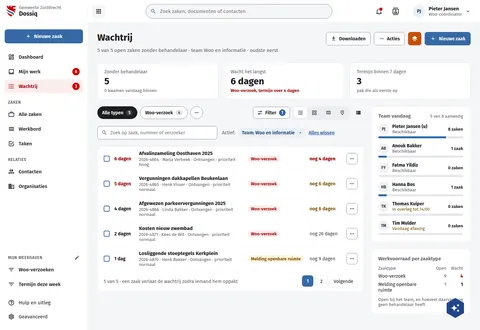
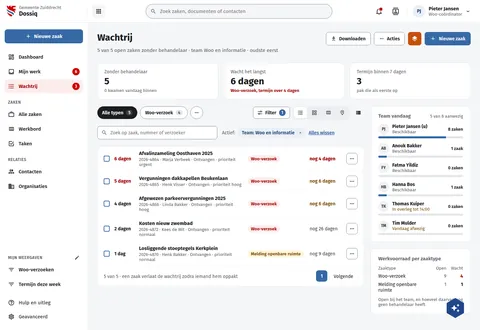
fix(screens): DqTeamwachtrij draws the queue the set holds
The rows carry the set's priorities as live shows them (2026-4864 urgent,
4865 and 4866 hoog) and Kosten nieuw zwembad's number as live numbers it
(2026-4872); with 4865's shorter meta on one line, live's pager sat 14px
higher than drawn. Five of five cases fit one page, so the pager has no
page 2.

Assisted-by: ClaudeCode:claude-opus-5-5

diff --git a/preview/screens/boards/DqTeamwachtrij.html b/preview/screens/boards/DqTeamwachtrij.html
@@ -216,7 +216,7 @@ a{color:var(--sc-primary, #3669a5)}a:hover{color:var(--sc-primary-deep, #234a78)
               <div style="display: flex; flex-wrap: wrap; align-items: center; gap: 8px 14px; padding: 12px 18px; border-bottom: 1px solid var(--sc-work-soft, #eef0f3)">
                 <span aria-label="Selecteren" style="flex: none; width: 18px; height: 18px; box-sizing: border-box; border: 2px solid var(--sc-primary, #3669a5); border-radius: 4px; background: #ffffff"></span>
                 <span style="flex: none; width: 60px; font-size: 14px; font-weight: 700; color: var(--sc-accent-deep, #a30000);">6 dagen</span>
-                <a href="DqZaak.html" style="flex: 1 1 200px; min-width: 0; display: flex; flex-direction: column; gap: 2px; color: var(--sc-work-ink, #1b1c1d); text-decoration: none"><strong style="font-size: 15px">Afvalinzameling Oosthaven 2025</strong><span style="font-size: 13px; color: var(--sc-work-muted, #5e6168)">2026-4864 · Marja Verbeek · Ontvangen · prioriteit hoog</span></a>
+                <a href="DqZaak.html" style="flex: 1 1 200px; min-width: 0; display: flex; flex-direction: column; gap: 2px; color: var(--sc-work-ink, #1b1c1d); text-decoration: none"><strong style="font-size: 15px">Afvalinzameling Oosthaven 2025</strong><span style="font-size: 13px; color: var(--sc-work-muted, #5e6168)">2026-4864 · Marja Verbeek · Ontvangen · prioriteit urgent</span></a>
                 <span style="flex: 0 0 172px; display: flex"><span style="display: inline-block; padding: 3px 10px; border-radius: 12px; font-size: 13px; font-weight: 600; white-space: nowrap; background: #fcedec; color: var(--sc-accent-deep, #a30000)">Woo-verzoek</span></span>
                 <span style="flex: none; width: 96px; font-size: 14px; font-weight: 700; color: var(--sc-accent-deep, #a30000);">nog 4 dagen</span>
                 <button type="button" aria-label="Acties voor deze zaak: oppakken, gelezen of ongelezen, volgen" style="width: 34px; height: 34px; display: inline-flex; align-items: center; justify-content: center; border: 1px solid var(--sc-work-field, #828a95); border-radius: 8px; background: #ffffff; color: var(--sc-work-text, #3d4047)"><svg width="18" height="18" viewbox="0 0 24 24" fill="currentColor" aria-hidden="true"><path d="M16,12A2,2 0 0,1 18,10A2,2 0 0,1 20,12A2,2 0 0,1 18,14A2,2 0 0,1 16,12M10,12A2,2 0 0,1 12,10A2,2 0 0,1 14,12A2,2 0 0,1 12,14A2,2 0 0,1 10,12M4,12A2,2 0 0,1 6,10A2,2 0 0,1 8,12A2,2 0 0,1 6,14A2,2 0 0,1 4,12Z"></path></svg></button>
@@ -225,7 +225,7 @@ a{color:var(--sc-primary, #3669a5)}a:hover{color:var(--sc-primary-deep, #234a78)
               <div style="display: flex; flex-wrap: wrap; align-items: center; gap: 8px 14px; padding: 12px 18px; border-bottom: 1px solid var(--sc-work-soft, #eef0f3)">
                 <span aria-label="Selecteren" style="flex: none; width: 18px; height: 18px; box-sizing: border-box; border: 2px solid var(--sc-primary, #3669a5); border-radius: 4px; background: #ffffff"></span>
                 <span style="flex: none; width: 60px; font-size: 14px; font-weight: 700; color: var(--sc-accent-deep, #a30000);">5 dagen</span>
-                <a href="DqZaak.html" style="flex: 1 1 200px; min-width: 0; display: flex; flex-direction: column; gap: 2px; color: var(--sc-work-ink, #1b1c1d); text-decoration: none"><strong style="font-size: 15px">Vergunningen dakkapellen Beukenlaan</strong><span style="font-size: 13px; color: var(--sc-work-muted, #5e6168)">2026-4865 · Henk Visser · Ontvangen · prioriteit normaal</span></a>
+                <a href="DqZaak.html" style="flex: 1 1 200px; min-width: 0; display: flex; flex-direction: column; gap: 2px; color: var(--sc-work-ink, #1b1c1d); text-decoration: none"><strong style="font-size: 15px">Vergunningen dakkapellen Beukenlaan</strong><span style="font-size: 13px; color: var(--sc-work-muted, #5e6168)">2026-4865 · Henk Visser · Ontvangen · prioriteit hoog</span></a>
                 <span style="flex: 0 0 172px; display: flex"><span style="display: inline-block; padding: 3px 10px; border-radius: 12px; font-size: 13px; font-weight: 600; white-space: nowrap; background: #fcedec; color: var(--sc-accent-deep, #a30000)">Woo-verzoek</span></span>
                 <span style="flex: none; width: 96px; font-size: 14px; font-weight: 600; color: #7a4f00;">nog 6 dagen</span>
                 <button type="button" aria-label="Acties voor deze zaak: oppakken, gelezen of ongelezen, volgen" style="width: 34px; height: 34px; display: inline-flex; align-items: center; justify-content: center; border: 1px solid var(--sc-work-field, #828a95); border-radius: 8px; background: #ffffff; color: var(--sc-work-text, #3d4047)"><svg width="18" height="18" viewbox="0 0 24 24" fill="currentColor" aria-hidden="true"><path d="M16,12A2,2 0 0,1 18,10A2,2 0 0,1 20,12A2,2 0 0,1 18,14A2,2 0 0,1 16,12M10,12A2,2 0 0,1 12,10A2,2 0 0,1 14,12A2,2 0 0,1 12,14A2,2 0 0,1 10,12M4,12A2,2 0 0,1 6,10A2,2 0 0,1 8,12A2,2 0 0,1 6,14A2,2 0 0,1 4,12Z"></path></svg></button>
@@ -234,7 +234,7 @@ a{color:var(--sc-primary, #3669a5)}a:hover{color:var(--sc-primary-deep, #234a78)
               <div style="display: flex; flex-wrap: wrap; align-items: center; gap: 8px 14px; padding: 12px 18px; border-bottom: 1px solid var(--sc-work-soft, #eef0f3)">
                 <span aria-label="Selecteren" style="flex: none; width: 18px; height: 18px; box-sizing: border-box; border: 2px solid var(--sc-primary, #3669a5); border-radius: 4px; background: #ffffff"></span>
                 <span style="flex: none; width: 60px; font-size: 14px; font-weight: 700; color: var(--sc-work-ink, #1b1c1d);">4 dagen</span>
-                <a href="DqZaak.html" style="flex: 1 1 200px; min-width: 0; display: flex; flex-direction: column; gap: 2px; color: var(--sc-work-ink, #1b1c1d); text-decoration: none"><strong style="font-size: 15px">Afgewezen parkeervergunningen 2025</strong><span style="font-size: 13px; color: var(--sc-work-muted, #5e6168)">2026-4866 · Linda Bakker · Ontvangen · prioriteit normaal</span></a>
+                <a href="DqZaak.html" style="flex: 1 1 200px; min-width: 0; display: flex; flex-direction: column; gap: 2px; color: var(--sc-work-ink, #1b1c1d); text-decoration: none"><strong style="font-size: 15px">Afgewezen parkeervergunningen 2025</strong><span style="font-size: 13px; color: var(--sc-work-muted, #5e6168)">2026-4866 · Linda Bakker · Ontvangen · prioriteit hoog</span></a>
                 <span style="flex: 0 0 172px; display: flex"><span style="display: inline-block; padding: 3px 10px; border-radius: 12px; font-size: 13px; font-weight: 600; white-space: nowrap; background: #fcedec; color: var(--sc-accent-deep, #a30000)">Woo-verzoek</span></span>
                 <span style="flex: none; width: 96px; font-size: 14px; font-weight: 600; color: #7a4f00;">nog 6 dagen</span>
                 <button type="button" aria-label="Acties voor deze zaak: oppakken, gelezen of ongelezen, volgen" style="width: 34px; height: 34px; display: inline-flex; align-items: center; justify-content: center; border: 1px solid var(--sc-work-field, #828a95); border-radius: 8px; background: #ffffff; color: var(--sc-work-text, #3d4047)"><svg width="18" height="18" viewbox="0 0 24 24" fill="currentColor" aria-hidden="true"><path d="M16,12A2,2 0 0,1 18,10A2,2 0 0,1 20,12A2,2 0 0,1 18,14A2,2 0 0,1 16,12M10,12A2,2 0 0,1 12,10A2,2 0 0,1 14,12A2,2 0 0,1 12,14A2,2 0 0,1 10,12M4,12A2,2 0 0,1 6,10A2,2 0 0,1 8,12A2,2 0 0,1 6,14A2,2 0 0,1 4,12Z"></path></svg></button>
@@ -243,7 +243,7 @@ a{color:var(--sc-primary, #3669a5)}a:hover{color:var(--sc-primary-deep, #234a78)
               <div style="display: flex; flex-wrap: wrap; align-items: center; gap: 8px 14px; padding: 12px 18px; border-bottom: 1px solid var(--sc-work-soft, #eef0f3)">
                 <span aria-label="Selecteren" style="flex: none; width: 18px; height: 18px; box-sizing: border-box; border: 2px solid var(--sc-primary, #3669a5); border-radius: 4px; background: #ffffff"></span>
                 <span style="flex: none; width: 60px; font-size: 14px; font-weight: 700; color: var(--sc-work-ink, #1b1c1d);">2 dagen</span>
-                <a href="DqZaak.html" style="flex: 1 1 200px; min-width: 0; display: flex; flex-direction: column; gap: 2px; color: var(--sc-work-ink, #1b1c1d); text-decoration: none"><strong style="font-size: 15px">Kosten nieuw zwembad</strong><span style="font-size: 13px; color: var(--sc-work-muted, #5e6168)">2026-4871 · Kees de Wit · Ontvangen · prioriteit normaal</span></a>
+                <a href="DqZaak.html" style="flex: 1 1 200px; min-width: 0; display: flex; flex-direction: column; gap: 2px; color: var(--sc-work-ink, #1b1c1d); text-decoration: none"><strong style="font-size: 15px">Kosten nieuw zwembad</strong><span style="font-size: 13px; color: var(--sc-work-muted, #5e6168)">2026-4872 · Kees de Wit · Ontvangen · prioriteit normaal</span></a>
                 <span style="flex: 0 0 172px; display: flex"><span style="display: inline-block; padding: 3px 10px; border-radius: 12px; font-size: 13px; font-weight: 600; white-space: nowrap; background: #fcedec; color: var(--sc-accent-deep, #a30000)">Woo-verzoek</span></span>
                 <span style="flex: none; width: 96px; font-size: 14px; color: var(--sc-work-text, #3d4047);">nog 26 dagen</span>
                 <button type="button" aria-label="Acties voor deze zaak: oppakken, gelezen of ongelezen, volgen" style="width: 34px; height: 34px; display: inline-flex; align-items: center; justify-content: center; border: 1px solid var(--sc-work-field, #828a95); border-radius: 8px; background: #ffffff; color: var(--sc-work-text, #3d4047)"><svg width="18" height="18" viewbox="0 0 24 24" fill="currentColor" aria-hidden="true"><path d="M16,12A2,2 0 0,1 18,10A2,2 0 0,1 20,12A2,2 0 0,1 18,14A2,2 0 0,1 16,12M10,12A2,2 0 0,1 12,10A2,2 0 0,1 14,12A2,2 0 0,1 12,14A2,2 0 0,1 10,12M4,12A2,2 0 0,1 6,10A2,2 0 0,1 8,12A2,2 0 0,1 6,14A2,2 0 0,1 4,12Z"></path></svg></button>
@@ -262,7 +262,6 @@ a{color:var(--sc-primary, #3669a5)}a:hover{color:var(--sc-primary-deep, #234a78)
               <span>5 van 5 · een zaak verlaat de wachtrij zodra iemand hem oppakt</span>
               <nav aria-label="Paginering" style="display: flex; gap: 6px">
               <a href="#" aria-current="page" style="min-width: 34px; height: 34px; display: inline-flex; align-items: center; justify-content: center; border-radius: 8px; background: var(--sc-primary, #3669a5); color: #ffffff; font-weight: 600; text-decoration: none">1</a>
-              <a href="#" style="min-width: 34px; height: 34px; display: inline-flex; align-items: center; justify-content: center; border-radius: 8px; border: 1px solid var(--sc-work-line, #e4e6ea); color: var(--sc-work-ink, #1b1c1d); text-decoration: none">2</a>
               <a href="#" style="height: 34px; padding: 0 12px; display: inline-flex; align-items: center; border-radius: 8px; border: 1px solid var(--sc-work-line, #e4e6ea); color: var(--sc-work-ink, #1b1c1d); text-decoration: none">Volgende</a>
             </nav>
             </div>

diff --git a/screens-src/zuiddrecht/DqTeamwachtrij.dc.html b/screens-src/zuiddrecht/DqTeamwachtrij.dc.html
@@ -88,7 +88,6 @@ a{color:#3669a5}a:hover{color:#234a78}
               <span>5 van 5 · een zaak verlaat de wachtrij zodra iemand hem oppakt</span>
               <nav aria-label="Paginering" style="display: flex; gap: 6px">
               <a href="#" aria-current="page" style="min-width: 34px; height: 34px; display: inline-flex; align-items: center; justify-content: center; border-radius: 8px; background: #3669a5; color: #ffffff; font-weight: 600; text-decoration: none">1</a>
-              <a href="#" style="min-width: 34px; height: 34px; display: inline-flex; align-items: center; justify-content: center; border-radius: 8px; border: 1px solid #e4e6ea; color: #1b1c1d; text-decoration: none">2</a>
               <a href="#" style="height: 34px; padding: 0 12px; display: inline-flex; align-items: center; border-radius: 8px; border: 1px solid #e4e6ea; color: #1b1c1d; text-decoration: none">Volgende</a>
             </nav>
             </div>
@@ -137,10 +136,10 @@ class Component extends DCLogic {
     const waitStyle = (late) => 'flex: none; width: 60px; font-size: 14px; font-weight: 700; ' + (late ? 'color: #a30000;' : 'color: #1b1c1d;');
     const dueStyle = (lvl) => 'flex: none; width: 96px; font-size: 14px; ' + (lvl === 'late' ? 'font-weight: 700; color: #a30000;' : lvl === 'soon' ? 'font-weight: 600; color: #7a4f00;' : 'color: #3d4047;');
     const rows = [
-      ['6 dagen', 'Afvalinzameling Oosthaven 2025', '2026-4864 · Marja Verbeek · Ontvangen · prioriteit hoog', 'Woo-verzoek', 'nog 4 dagen', 'late', true],
-      ['5 dagen', 'Vergunningen dakkapellen Beukenlaan', '2026-4865 · Henk Visser · Ontvangen · prioriteit normaal', 'Woo-verzoek', 'nog 6 dagen', 'soon', true],
-      ['4 dagen', 'Afgewezen parkeervergunningen 2025', '2026-4866 · Linda Bakker · Ontvangen · prioriteit normaal', 'Woo-verzoek', 'nog 6 dagen', 'soon', false],
-      ['2 dagen', 'Kosten nieuw zwembad', '2026-4871 · Kees de Wit · Ontvangen · prioriteit normaal', 'Woo-verzoek', 'nog 26 dagen', 'ok', false],
+      ['6 dagen', 'Afvalinzameling Oosthaven 2025', '2026-4864 · Marja Verbeek · Ontvangen · prioriteit urgent', 'Woo-verzoek', 'nog 4 dagen', 'late', true],
+      ['5 dagen', 'Vergunningen dakkapellen Beukenlaan', '2026-4865 · Henk Visser · Ontvangen · prioriteit hoog', 'Woo-verzoek', 'nog 6 dagen', 'soon', true],
+      ['4 dagen', 'Afgewezen parkeervergunningen 2025', '2026-4866 · Linda Bakker · Ontvangen · prioriteit hoog', 'Woo-verzoek', 'nog 6 dagen', 'soon', false],
+      ['2 dagen', 'Kosten nieuw zwembad', '2026-4872 · Kees de Wit · Ontvangen · prioriteit normaal', 'Woo-verzoek', 'nog 26 dagen', 'ok', false],
       ['1 dag', 'Losliggende stoeptegels Kerkplein', '2026-4870 · Henk Bakker · Ontvangen · prioriteit normaal', 'Melding openbare ruimte', 'nog 9 dagen', 'ok', false]
     ].map(([wait, title, meta, type, due, lvl, late]) => ({ wait, title, meta, type, typePill: T[type], due, dueStyle: dueStyle(lvl), waitStyle: waitStyle(late), claimLabel: 'Oppakken: ' + title }));
     const bar = (pct, hot) => 'display: block; height: 6px; width: ' + pct + '%; background: ' + (hot ? '#cc0000' : '#3669a5');
